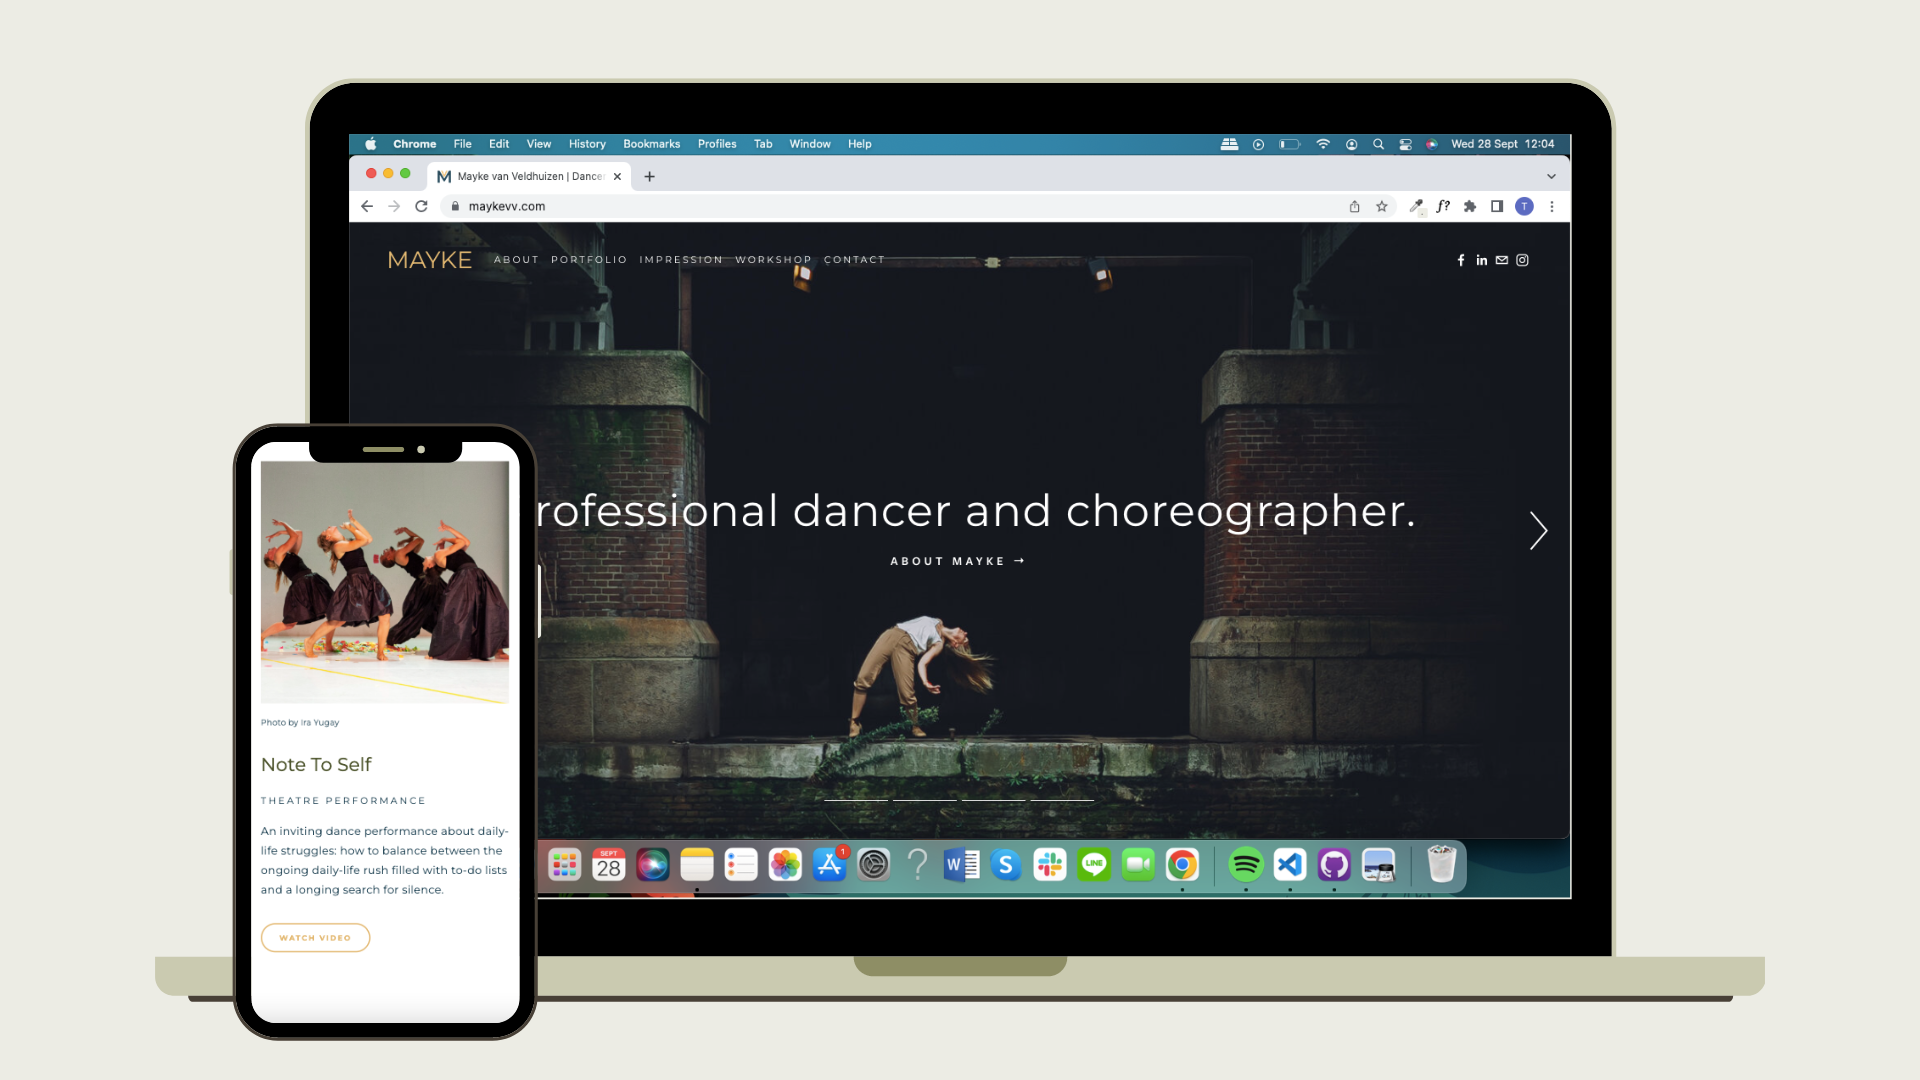
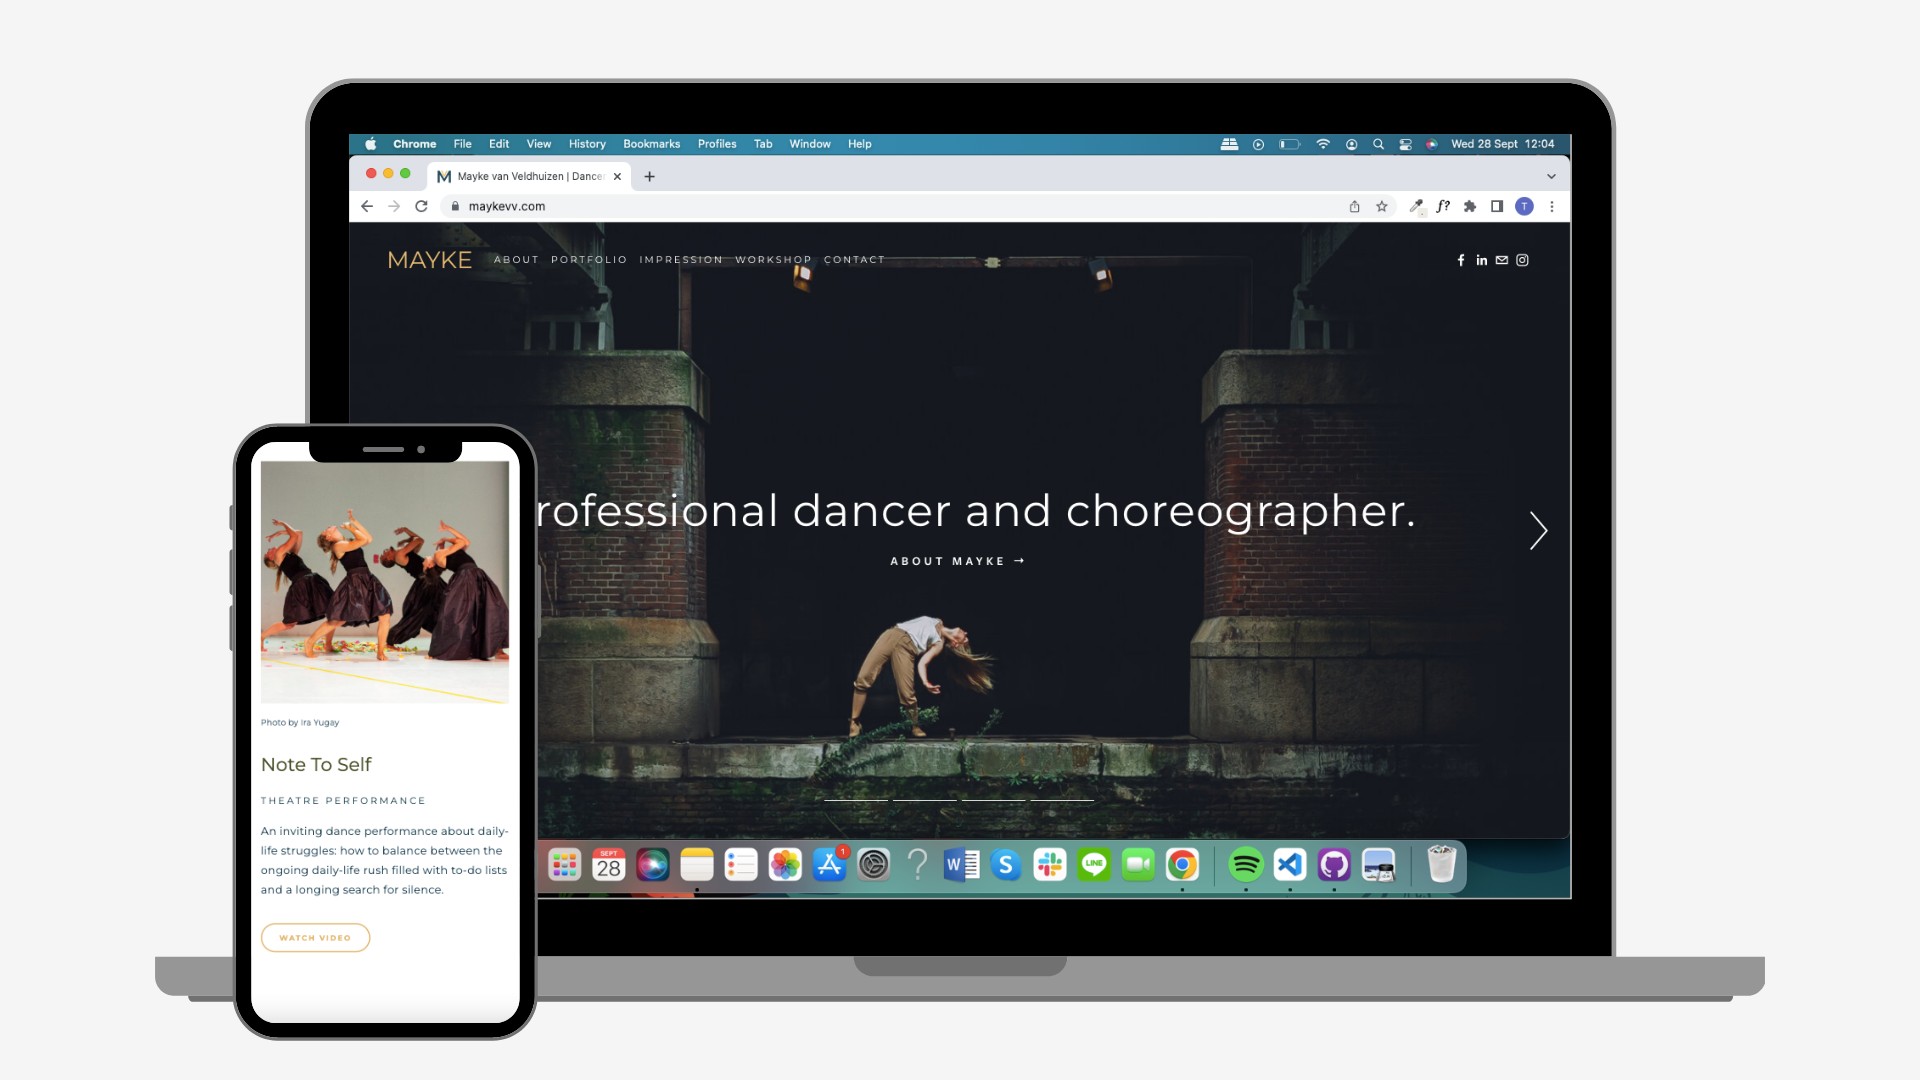
Updated color scheme

diff --git a/css/styles.css b/css/styles.css
@@ -1,8 +1,8 @@
 :root {
-  --heading-color: #8e8e65;
-  --paragraph-color: #484036;
-  --accent-color: #cacab0;
-  --background-color: #ecece4;
+  --heading-color: #759196;
+  --paragraph-color: #315c61;
+  --accent-color: #d1b02b;
+  --background-color: #f5f5f5;
   --heading-font-family: "Montserrat", sans-serif;
   --sub-heading-font-family: "Lora", serif;
   --default-font-family: "Hind Madurai", sans-serif;
@@ -88,7 +88,6 @@ a:hover {
 }
 
 .hero h3 {
-  color: var(--paragraph-color);
   line-height: 1.5;
   padding-bottom: 8px;
 }
